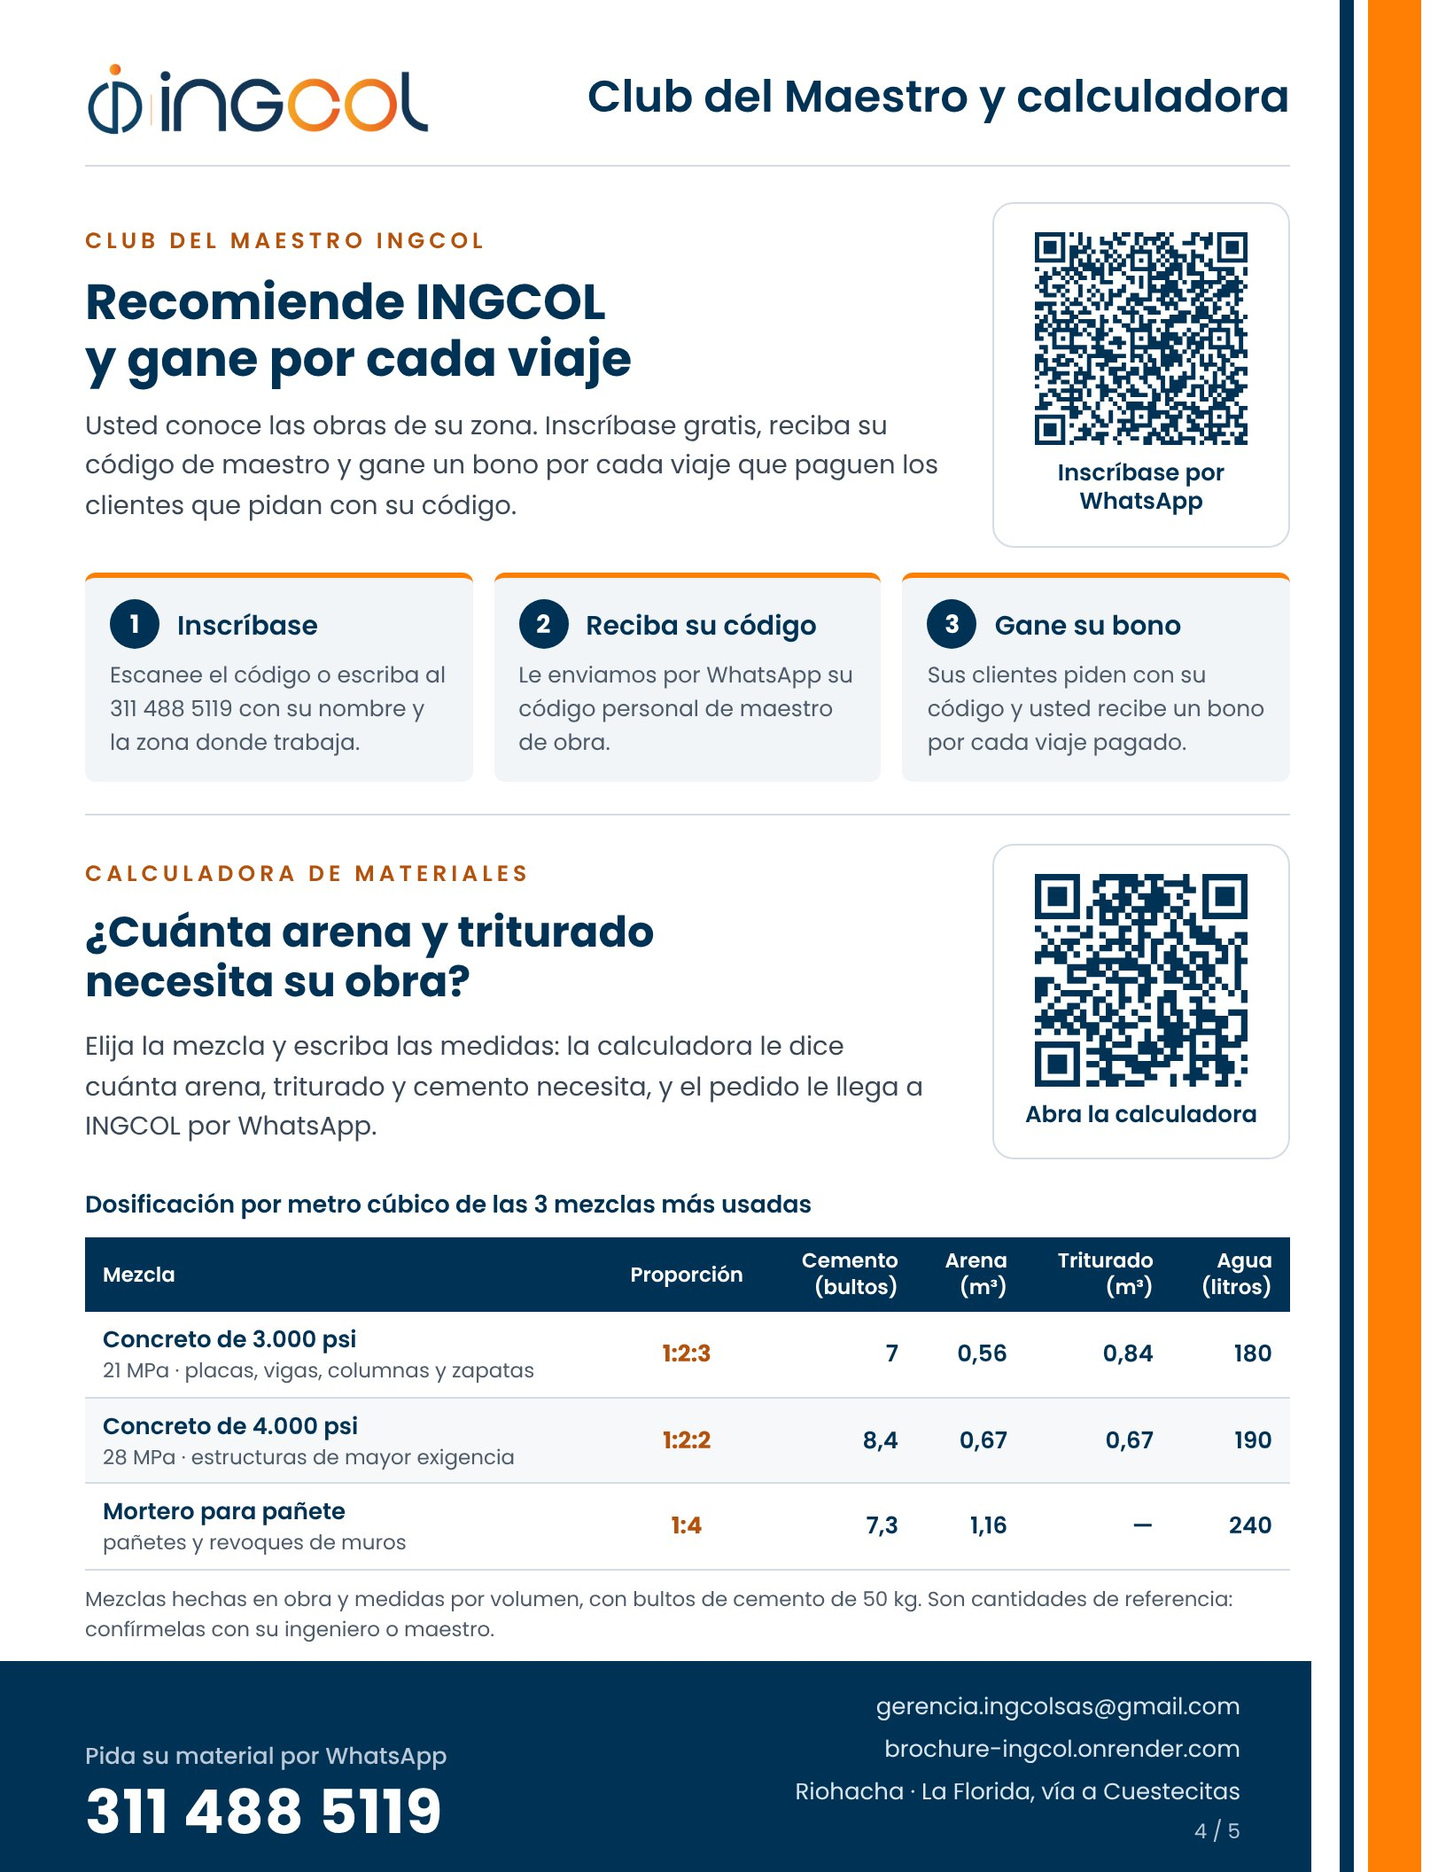
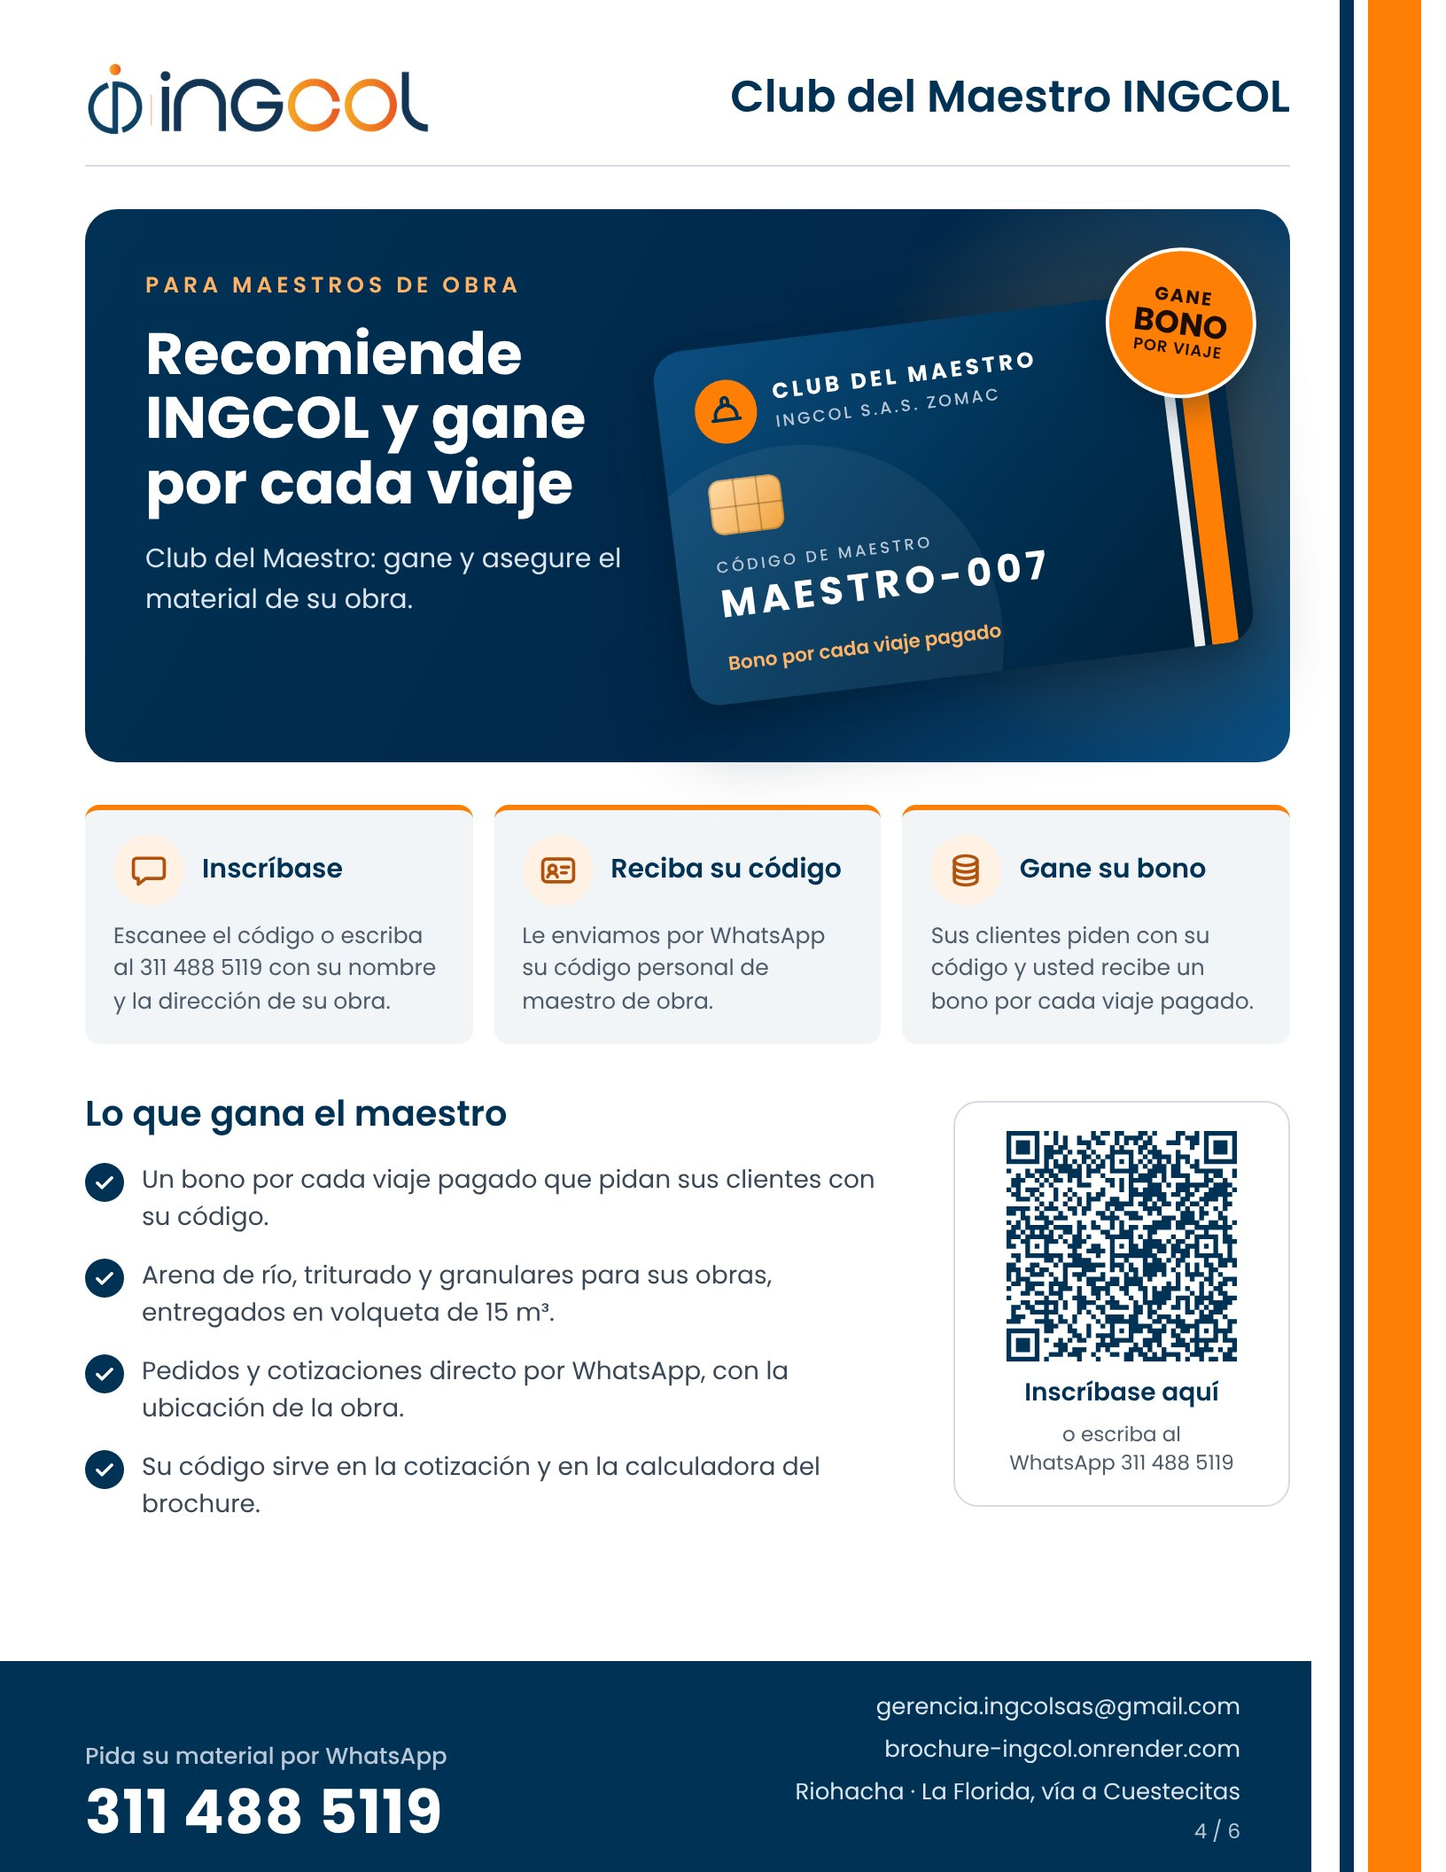
Brochure de 6 paginas: Club del Maestro con tarjeta, calculadora con celular y ubicacion de la obra

diff --git a/index.html b/index.html
@@ -151,6 +151,16 @@ form { display: flex; flex-direction: column; gap: 10px; margin: 0; }
 .mz-uso { font-size: 13px; line-height: 1.35; color: var(--sheet-ink); }
 .mz-dosis { font-size: 12.5px; line-height: 1.4; color: var(--sheet-muted); }
 .panel h2:focus { outline: none; }
+.ubicar { align-self: flex-start; display: inline-flex; align-items: center; gap: 8px; min-height: 40px; margin-top: 4px; padding: 6px 14px; border: 1.5px solid var(--sheet-line); border-radius: 999px;
+  background: var(--sheet); color: var(--navy); font: 600 13.5px/1.2 var(--font); cursor: pointer; }
+.ubicar svg { color: var(--orange); flex-shrink: 0; }
+.ubicar[aria-disabled="true"] { opacity: .6; pointer-events: none; }
+.ubicar:focus-visible { outline: 3px solid var(--orange); outline-offset: 2px; }
+.panel .ayuda { margin: 2px 0 0; font-size: 12.5px; }
+.tarjeta-club { display: flex; justify-content: center; padding: 26px 0 8px; }
+.lema-calc { display: flex; align-items: center; gap: 12px; padding: 12px 14px; border-radius: 12px; background: #FFF1E3; color: var(--navy); }
+.lema-calc span { width: 40px; height: 40px; flex-shrink: 0; border-radius: 999px; background: var(--orange); display: flex; align-items: center; justify-content: center; }
+.lema-calc b { font-size: 15px; font-weight: 600; line-height: 1.3; }
 .check { display: flex; align-items: center; gap: 10px; min-height: 36px; font-size: 14px; color: var(--sheet-ink); cursor: pointer; }
 .check input { width: 20px; height: 20px; margin: 0; accent-color: var(--navy); }
 .resultado { background: #F2F5F8; border-radius: 12px; padding: 14px; display: flex; flex-direction: column; gap: 10px; }
@@ -196,7 +206,7 @@ form { display: flex; flex-direction: column; gap: 10px; margin: 0; }
     <div class="marca"><b>BROCHURE 2026</b><span class="vig" id="vigencia">Precios de esta semana</span><span class="lema">Materiales pétreos y transporte de carga</span></div>
   </header>
 
-  <div class="escenario" id="escenario" aria-roledescription="libro" aria-label="Brochure de INGCOL, 5 páginas">
+  <div class="escenario" id="escenario" aria-roledescription="libro" aria-label="Brochure de INGCOL, 6 páginas">
     <button class="flecha izq" id="ant" type="button" aria-label="Página anterior">
       <svg width="22" height="22" viewBox="0 0 24 24" fill="none" stroke="currentColor" stroke-width="2.2" stroke-linecap="round" stroke-linejoin="round" aria-hidden="true"><path d="m15 18-6-6 6-6"></path></svg>
     </button>
@@ -217,7 +227,7 @@ form { display: flex; flex-direction: column; gap: 10px; margin: 0; }
 
   <div class="controles">
     <div class="puntos" id="puntos"></div>
-    <div class="contador" id="contador" aria-live="polite">Página 1 de 5</div>
+    <div class="contador" id="contador" aria-live="polite">Página 1 de 6</div>
     <button class="ctrl" id="play" type="button" aria-pressed="true">
       <svg id="ico-pausa" width="14" height="14" viewBox="0 0 24 24" fill="currentColor" aria-hidden="true"><rect x="5" y="4" width="5" height="16" rx="1"></rect><rect x="14" y="4" width="5" height="16" rx="1"></rect></svg>
       <svg id="ico-play" width="14" height="14" viewBox="0 0 24 24" fill="currentColor" aria-hidden="true" hidden><path d="M7 4.5v15a1 1 0 0 0 1.5.86l12-7.5a1 1 0 0 0 0-1.72l-12-7.5A1 1 0 0 0 7 4.5Z"></path></svg>
@@ -313,6 +323,7 @@ form { display: flex; flex-direction: column; gap: 10px; margin: 0; }
         <svg width="18" height="18" viewBox="0 0 24 24" fill="none" stroke="currentColor" stroke-width="2.2" stroke-linecap="round" aria-hidden="true"><path d="M6 6l12 12M18 6 6 18"></path></svg>
       </button>
     </div>
+    <div class="lema-calc"><span aria-hidden="true"><svg width="22" height="22" viewBox="0 0 24 24" fill="none" stroke="#1B0D00" stroke-width="2" stroke-linecap="round" stroke-linejoin="round" aria-hidden="true" style="display: block; flex-shrink: 0"><path d="M2.5 15.5V9h10l2 3.5h4.5l2.5 3v2h-2"/><path d="M12.5 9 11 5.5H3.5L2.5 9"/><circle cx="7" cy="17.5" r="2"/><circle cx="17" cy="17.5" r="2"/><path d="M9 17.5h6"/></svg></span><b>Calculamos sus materiales y los llevamos a su obra</b></div>
     <p>Elija la mezcla, escriba las medidas y le decimos cuánta arena, triturado y cemento necesita. Son cantidades de referencia: confírmelas con su ingeniero o maestro.</p>
     <form id="f-calc" novalidate>
       <fieldset class="mezclas">
@@ -351,7 +362,8 @@ form { display: flex; flex-direction: column; gap: 10px; margin: 0; }
       <div class="campo" id="k-por-vol" hidden><label for="k-vol">Volumen (m³)</label><input id="k-vol" type="text" inputmode="decimal" autocomplete="off" placeholder="Ej. 4,5"></div>
       <label class="check" for="k-desp"><input type="checkbox" id="k-desp" checked> Sumar 5 % de desperdicio</label>
       <div class="resultado" id="k-res" aria-live="polite"></div>
-      <div class="campo"><label for="k-lugar">¿Dónde es la obra?</label><input id="k-lugar" list="municipios" autocomplete="off" placeholder="Municipio y barrio"></div>
+      <div class="campo"><label for="k-lugar">¿Dónde es la obra?</label><input id="k-lugar" list="municipios" autocomplete="off" placeholder="Municipio, barrio o dirección">
+        <button class="ubicar" type="button" data-campo="k-lugar"><svg width="18" height="18" viewBox="0 0 24 24" fill="none" stroke="currentColor" stroke-width="2" stroke-linecap="round" stroke-linejoin="round" aria-hidden="true"><path d="M12 21s-7-6.2-7-11a7 7 0 0 1 14 0c0 4.8-7 11-7 11Z"></path><circle cx="12" cy="10" r="2.5"></circle></svg>Usar la ubicación de mi celular</button><p class="ayuda" id="k-lugar-ayuda" hidden></p></div>
       <div class="campo"><label for="k-codigo">Código de maestro (opcional)</label><input id="k-codigo" autocomplete="off" placeholder="Si un maestro le recomendó INGCOL"></div>
       <a class="boton principal" id="k-pedir" href="#" target="_blank" rel="noopener">
         <svg width="20" height="20" viewBox="0 0 24 24" fill="none" stroke="currentColor" stroke-width="2.1" stroke-linecap="round" stroke-linejoin="round" aria-hidden="true"><path d="M22 2 11 13"></path><path d="M22 2 15 22l-4-9-9-4 20-7Z"></path></svg>
@@ -370,15 +382,43 @@ form { display: flex; flex-direction: column; gap: 10px; margin: 0; }
         <svg width="18" height="18" viewBox="0 0 24 24" fill="none" stroke="currentColor" stroke-width="2.2" stroke-linecap="round" aria-hidden="true"><path d="M6 6l12 12M18 6 6 18"></path></svg>
       </button>
     </div>
-    <p>Para maestros de obra que recomiendan buen material. Inscribirse es gratis.</p>
+    <p>Para maestros de obra que recomiendan buen material: gane y asegure el material de su obra. Inscribirse es gratis.</p>
+    <div class="tarjeta-club" aria-hidden="true"><div style="position: relative; width: 340px; height: 214px; zoom: 0.8; transform: rotate(-5deg); flex-shrink: 0">
+<div style="position: absolute; inset: 0; border-radius: 18px; overflow: hidden; background: linear-gradient(135deg, #0B4E80 0%, #003256 52%, #001F36 100%); box-shadow: 0 22px 44px rgba(0, 25, 45, .38), 0 6px 14px rgba(0, 25, 45, .28); color: #FFFFFF">
+<div style="position: absolute; top: 0; bottom: 0; right: 30px; width: 7px; background: #FFFFFF; opacity: .92"></div>
+<div style="position: absolute; top: 0; bottom: 0; right: 10px; width: 16px; background: #FF7F04"></div>
+<div style="position: absolute; left: -50px; bottom: -90px; width: 240px; height: 240px; border-radius: 999px; background: rgba(255, 255, 255, .06)"></div>
+<div style="position: absolute; left: 22px; top: 20px; display: flex; align-items: center; gap: 10px">
+<span style="width: 38px; height: 38px; border-radius: 999px; background: #FF7F04; display: flex; align-items: center; justify-content: center"><svg width="22" height="22" viewBox="0 0 24 24" fill="none" stroke="#003256" stroke-width="2.2" stroke-linecap="round" stroke-linejoin="round" aria-hidden="true" style="display: block; flex-shrink: 0"><path d="M3 18h18"/><path d="M5 18v-2.5a7 7 0 0 1 14 0V18"/><path d="M10 9.2V5.5a2 2 0 0 1 4 0v3.7"/></svg></span>
+<div style="display: flex; flex-direction: column; gap: 1px"><span style="font-size: 13px; font-weight: 700; letter-spacing: 2.2px">CLUB DEL MAESTRO</span><span style="font-size: 10px; font-weight: 500; letter-spacing: 1.6px; color: #B9C7D6">INGCOL S.A.S. ZOMAC</span></div>
+</div>
+<div style="position: absolute; left: 24px; top: 80px; width: 44px; height: 33px; border-radius: 7px; background: linear-gradient(135deg, #FFDCA8, #F0A13C); box-shadow: inset 0 0 0 1px rgba(90, 45, 0, .25)">
+<div style="position: absolute; left: 15px; top: 0; bottom: 0; width: 1px; background: rgba(90, 45, 0, .3)"></div>
+<div style="position: absolute; left: 29px; top: 0; bottom: 0; width: 1px; background: rgba(90, 45, 0, .3)"></div>
+<div style="position: absolute; left: 0; right: 0; top: 16px; height: 1px; background: rgba(90, 45, 0, .3)"></div>
+</div>
+<div style="position: absolute; left: 24px; top: 126px; display: flex; flex-direction: column">
+<span style="font-size: 9.5px; font-weight: 500; letter-spacing: 1.8px; color: #B9C7D6">CÓDIGO DE MAESTRO</span>
+<span style="font-size: 23px; font-weight: 700; letter-spacing: 3px; line-height: 1.25">MAESTRO-007</span>
+</div>
+<div style="position: absolute; left: 24px; bottom: 15px; font-size: 11.5px; font-weight: 600; color: #FFB366">Bono por cada viaje pagado</div>
+</div>
+<div style="position: absolute; right: -24px; top: -26px; width: 86px; height: 86px; border-radius: 999px; background: #FF7F04; color: #1B0D00; border: 3px solid #FFFFFF; box-shadow: 0 8px 18px rgba(0, 25, 45, .3); display: flex; flex-direction: column; align-items: center; justify-content: center; transform: rotate(14deg)">
+<span style="font-size: 11px; font-weight: 700; letter-spacing: 1.2px; line-height: 1.1">GANE</span>
+<span style="font-size: 19px; font-weight: 700; line-height: 1.05">BONO</span>
+<span style="font-size: 9.5px; font-weight: 600; letter-spacing: .6px; line-height: 1.1">POR VIAJE</span>
+</div>
+</div></div>
     <ol class="pasos">
-      <li><b>Inscríbase por WhatsApp</b><span>Con su nombre y la zona donde trabaja.</span></li>
+      <li><b>Inscríbase por WhatsApp</b><span>Con su nombre, la zona donde trabaja y la dirección de su obra.</span></li>
       <li><b>Reciba su código de maestro</b><span>Se lo enviamos por WhatsApp.</span></li>
       <li><b>Gane su bono</b><span>Sus clientes piden con su código y usted recibe un bono por cada viaje pagado.</span></li>
     </ol>
     <form id="f-club" novalidate>
       <div class="campo"><label for="m-nombre">Nombre completo</label><input id="m-nombre" autocomplete="name" required></div>
       <div class="campo"><label for="m-zona">Municipio o barrio donde trabaja</label><input id="m-zona" list="municipios" autocomplete="off" placeholder="Ej. Maicao"></div>
+      <div class="campo"><label for="m-obra">Dirección o coordenadas de la obra (opcional)</label><input id="m-obra" autocomplete="off" placeholder="Ej. Calle 15 # 8-20, o 11.544400, -72.907200">
+        <button class="ubicar" type="button" data-campo="m-obra"><svg width="18" height="18" viewBox="0 0 24 24" fill="none" stroke="currentColor" stroke-width="2" stroke-linecap="round" stroke-linejoin="round" aria-hidden="true"><path d="M12 21s-7-6.2-7-11a7 7 0 0 1 14 0c0 4.8-7 11-7 11Z"></path><circle cx="12" cy="10" r="2.5"></circle></svg>Usar la ubicación de mi celular</button><p class="ayuda" id="m-obra-ayuda" hidden></p></div>
       <p class="error" id="m-error" role="alert" hidden>Escriba su nombre.</p>
       <a class="boton principal" id="m-enviar" href="#" target="_blank" rel="noopener">
         <svg width="20" height="20" viewBox="0 0 24 24" fill="none" stroke="currentColor" stroke-width="2.1" stroke-linecap="round" stroke-linejoin="round" aria-hidden="true"><path d="M22 2 11 13"></path><path d="M22 2 15 22l-4-9-9-4 20-7Z"></path></svg>
@@ -399,8 +439,9 @@ form { display: flex; flex-direction: column; gap: 10px; margin: 0; }
     { src: 'p1.jpg', alt: 'Página 1, portada: una mano muestra arena de río de grano fino. Materiales pétreos y transporte de carga. Arena de río, triturados, granulares y volquetas doble troque de 15 m³ para su obra en La Guajira. Cotice por WhatsApp al 311 488 5119.' },
     { src: 'p2.jpg', alt: 'Página 2, servicios: suministro de materiales, transporte en volqueta doble troque de 15 m³ y alquiler de maquinaria amarilla (retrocargador y minicargador).' },
     { src: 'p3.jpg', alt: 'Página 3, catálogo y tarifas 2026: precios por m³ de arena, triturado, base y subbase granular y afirmado; transporte a $680 por m³-km.' },
-    { src: 'club.jpg', alt: 'Página 4, Club del Maestro y calculadora: los maestros de obra se inscriben por WhatsApp, reciben su código y ganan un bono por cada viaje pagado que pidan sus clientes con ese código. La calculadora dice cuánta arena y triturado necesita una obra; ejemplo: placa de 60 m² y 10 cm, 3,6 m³ de arena, 5,3 m³ de triturado y 45 bultos de cemento.' },
-    { src: 'p4.jpg', alt: 'Página 5: cargue mecánico con retrocargador y despacho en volquetas a su obra en La Guajira, mapa de rutas desde Riohacha y usos de la arena de río.' }
+    { src: 'club.jpg', alt: 'Página 4, Club del Maestro INGCOL: recomiende INGCOL y gane por cada viaje. Tarjeta de maestro con su código y bono por cada viaje pagado; se inscribe por WhatsApp escaneando el código QR o escribiendo al 311 488 5119.' },
+    { src: 'calc.jpg', alt: 'Página 5, calculadora de materiales: calculamos sus materiales y los llevamos a su obra. Celular con la calculadora y dosificación por m³ de concreto de 3.000 psi (1:2:3), de 4.000 psi (1:2:2) y mortero de pañete (1:4).' },
+    { src: 'p4.jpg', alt: 'Página 6: cargue mecánico con retrocargador y despacho en volquetas a su obra en La Guajira, mapa de rutas desde Riohacha y usos de la arena de río.' }
   ];
   const N = PAGINAS.length, DUR = 900, ESPERA = 4500;
 
@@ -664,6 +705,30 @@ form { display: flex; flex-direction: column; gap: 10px; margin: 0; }
   $('directo').addEventListener('click', () => registrar('directo'));
   $('compartir').addEventListener('click', () => registrar('compartir'));
 
+  // ubicación de la obra: dirección escrita o coordenadas del celular, solo si la persona toca el botón; van en el mensaje que ella misma envía
+  const enlaceMapa = (txt) => {
+    const m = /(-?\d{1,2}\.\d{3,})\s*[,;]?\s*(-?\d{1,3}\.\d{3,})/.exec(txt || '');
+    if (!m) return '';
+    const la = parseFloat(m[1]), lo = parseFloat(m[2]);
+    return Math.abs(la) <= 90 && Math.abs(lo) <= 180 ? 'https://maps.google.com/?q=' + la.toFixed(6) + ',' + lo.toFixed(6) : '';
+  };
+  document.querySelectorAll('.ubicar').forEach((btn) => {
+    if (!('geolocation' in navigator)) { btn.hidden = true; return; }
+    btn.addEventListener('click', () => {
+      const campo = $(btn.dataset.campo), ayuda = $(btn.dataset.campo + '-ayuda');
+      btn.setAttribute('aria-disabled', 'true'); ayuda.hidden = false; ayuda.textContent = 'Buscando la ubicación…';
+      navigator.geolocation.getCurrentPosition((pos) => {
+        const t = pos.coords.latitude.toFixed(6) + ', ' + pos.coords.longitude.toFixed(6);
+        campo.value = campo.value.trim() && !enlaceMapa(campo.value) ? campo.value.trim() + ' (' + t + ')' : t;
+        ayuda.textContent = 'Listo: la ubicación va en el mensaje como enlace de Google Maps.';
+        btn.removeAttribute('aria-disabled'); campo.dispatchEvent(new Event('input', { bubbles: true }));
+      }, () => {
+        ayuda.textContent = 'No se pudo tomar la ubicación. Escriba la dirección de la obra.';
+        btn.removeAttribute('aria-disabled');
+      }, { enableHighAccuracy: true, timeout: 15000, maximumAge: 60000 });
+    });
+  });
+
   // calculadora de materiales: dosificación de referencia por m³ de las 3 mezclas más usadas, hechas en obra y medidas por volumen
   // (tabla clásica: concreto 1:2:3 y 1:2:2, mortero 1:4; cemento en bultos de 50 kg). Los mismos valores salen en la página 4.
   const MEZCLAS = {
@@ -709,7 +774,7 @@ form { display: flex; flex-direction: column; gap: 10px; margin: 0; }
   function mensajeCalc() {
     const c = calculo, l = ['Hola INGCOL, calculé mi obra en el brochure:', '• Mezcla: ' + c.m.nombre + ', ' + c.m.prop, '• Medidas: ' + c.medida];
     c.items.forEach((it) => l.push('• ' + it.nombre + ': ' + m3(it.cant) + ' m³'));
-    if (kLugar.value.trim()) l.push('• Lugar de la obra: ' + kLugar.value.trim());
+    if (kLugar.value.trim()) { l.push('• Lugar de la obra: ' + kLugar.value.trim()); const u = enlaceMapa(kLugar.value); if (u) l.push('• Ubicación: ' + u); }
     if (kCodigo.value.trim()) l.push('• Código de maestro: ' + kCodigo.value.trim());
     l.push('• ' + lineaVigencia());
     l.push('¿Me cotizan la entrega?');
@@ -727,15 +792,16 @@ form { display: flex; flex-direction: column; gap: 10px; margin: 0; }
   $('f-calc').addEventListener('submit', (e) => { e.preventDefault(); if (calculo) kPedir.click(); });
 
   // Club del Maestro: la inscripción sale por WhatsApp; INGCOL le responde con su código de maestro
-  const mNombre = $('m-nombre'), mZona = $('m-zona'), mEnviar = $('m-enviar');
+  const mNombre = $('m-nombre'), mZona = $('m-zona'), mObra = $('m-obra'), mEnviar = $('m-enviar');
   function actualizarClub() {
     const l = ['Hola INGCOL, quiero inscribirme en el Club del Maestro.'];
     if (mNombre.value.trim()) l.push('• Nombre: ' + mNombre.value.trim());
     if (mZona.value.trim()) l.push('• Zona donde trabajo: ' + mZona.value.trim());
+    if (mObra.value.trim()) { l.push('• Obra: ' + mObra.value.trim()); const u = enlaceMapa(mObra.value); if (u) l.push('• Ubicación de la obra: ' + u); }
     l.push('(Desde el brochure 2026)');
     mEnviar.href = 'https://wa.me/' + TEL + '?text=' + encodeURIComponent(l.join('\n'));
   }
-  [mNombre, mZona].forEach((el) => el.addEventListener('input', () => {
+  [mNombre, mZona, mObra].forEach((el) => el.addEventListener('input', () => {
     actualizarClub();
     if (mNombre.value.trim()) { $('m-error').hidden = true; mNombre.removeAttribute('aria-invalid'); }
   }));
